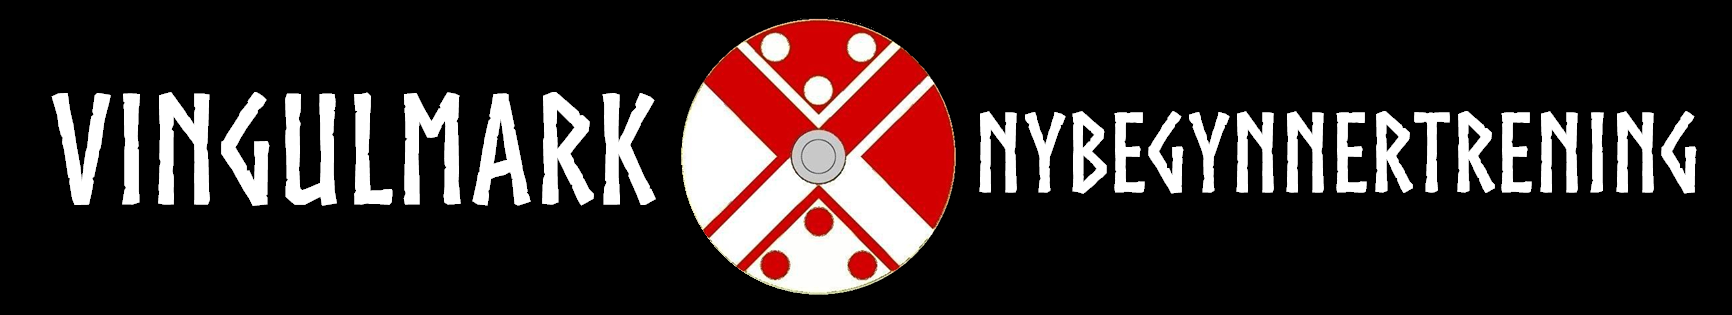
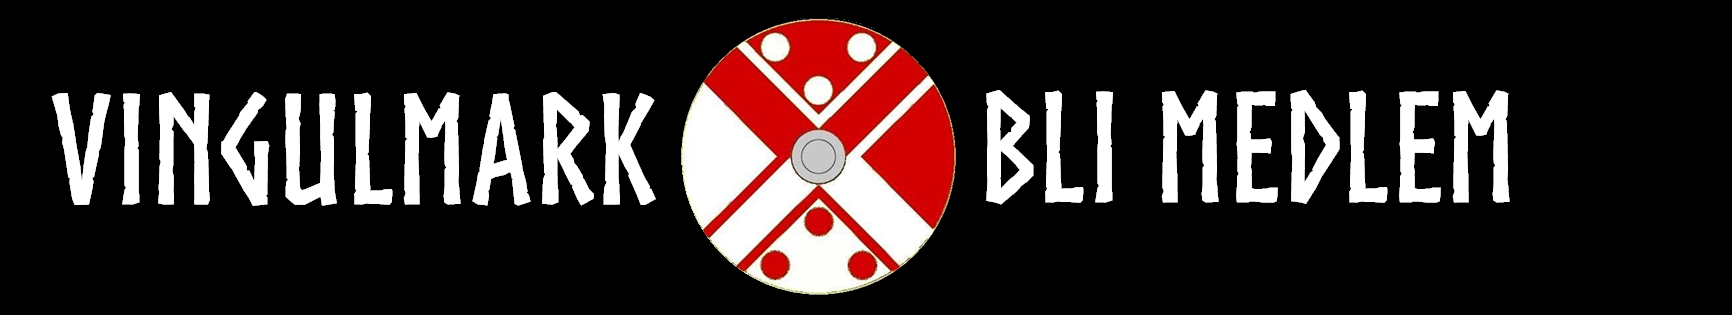
Changed a button to Bli medlem and added new header; added content to the same page

Changed region(s): [[0.5612, 0.2857, 0.9977, 0.6571]]

diff --git a/src/components/pages/Join.js b/src/components/pages/Join.js
@@ -46,7 +46,7 @@ const input1 = "Kunne du tenke deg å prøve “hærkamp” eller kjenner du noe
               "5. BOLK:\n"+
               "Introduksjon av pålevåpen.\n"+
               "6. BOLK:\n"+
-              "Eventuell repetisjon\n\n"+
+              "Eventuell repetisjon.\n\n"+
 
               "Ta med:\n"+
               "-Hansker som gir beskyttelse mot slag (bandyhansker er topp)\n"+
@@ -60,6 +60,64 @@ const input1 = "Kunne du tenke deg å prøve “hærkamp” eller kjenner du noe
 
               "Vel møtt!";
 
+const input2 = "Bli medlem:\n" +
+
+"Ønsker du å trene hærkamp, reise på markeder og treningshelger og mekke historisk utstyr sammen med Vingulmark? Her kan du sjekke"+
+" kriterier vi har for rekruttering og hvor og hvordan man skal søke medlemskap.\n\n"+
+
+"Vingulmark rekrutterer for tiden på to forskjellige nivåer, tilpasset hvilket nivå av erfaring man ligger på og hvor mye man vil"+
+" investere i hobbyen. “Vingulmark” er hovedgruppen med relativt strenge krav, mens “Vingulmark-leidangen” er en undergruppe med"+
+" en forholdsvis lav terskel.\n\n"+
+
+"Vingulmark-leidangen:\n"+
+"Leidangen var historisk en organisering i vikingtiden for å kalle inn bondekrigere i ufredstid. Leidangen var ikke profesjonelle"+
+" krigere, men utgjorde likevel den største massen av krigere i fylkingen.\n"+
+
+"I Vingulmark er Leidangen en undergruppe med mål om å kunne inkludere de aller ferskeste krigerne og de som ikke ønsker å "+
+"investere så mye i reenactment-delen av foreningen. Medlemskap i Leidangen er tilstrekkelig for å kunne delta fullt ut på "+
+"hærkamp-delen av hobbyen.\n"+
+
+"Som medlem av Vingulmark-Leidangen har man lov til å male skjoldet sitt i Vingulmarks farger & mønster, kan reise og trene"+
+" sammen med Vingulmark på treningshelger og visse markeder, delta på Vingulmark-arrangementer som mekkekvelder og julebord, få"+
+" tilgang på Vingulmarks sosiale nettverk (facebook og mail) og har tale og forslagsrett (men ikke stemmerett) på Vingulmarks"+
+" møter.\n\n"+
+
+"Søknad og kriterier:\n"+
+"For å søke medlemsskap i Leidangen sender man en mail til styret i Vingulmark, vingulmark_styret[at]googlegroups[dott]com, der"+
+" man gjør rede for om man oppfyller kravene for medlemskap:\n"+
+"– At godkjent sikkerhetskurs e.l. har blitt gjennomført.\n"+
+"– At man eier eget skjold og våpen for hærkampstrid.\n"+
+"– At man er minst 16 år gammel (de under 18 år trenger underskrift fra foresatte).\n\n"+
+
+"Styret avgjør om hvorvidt søkeren kvalifiserer seg til medlemskap. For at medlemskap i Leidangen skal være gyldig må også"+
+" kontingenten [150kr] være betalt innen 2 måneder for inneværende år eller innen 2 måneder av opptak.";
+
+const input3 = "Vingulmark:\n"+
+"Den originale Vingulmark har tradisjonelt favnet mye av vikingtid-reenactmenten i tillegg til hærkamp. Vingulmark tar også"+
+" betalte formidlings/kampshow-oppdrag som setter høyere krav til utstyr, evner og bidragsvilje.\n\n"+
+
+"Vingulmark er hovedgruppen/den harde kjernen i foreningen som består av de som legger mest tid i hobbyen. Det er også Vingulmark"+
+" som står for organiseringen av foreningen i sin helhet. Det er forventet større deltagelse (show, dugnader, kjøringer, møter)"+
+" av medlemmene i Vingulmark enn Leidangen.\n\n"+
+
+"Som medlem av Vingulmark har man fulle rettigheter mht. vedtektene (nederst på siden), som i tillegg til rettighetene nevnt for"+
+" leidangen blant annet gir stemmerett på Vingulmarks møter.\n\n"+
+
+"Søknad og kriterier:\n"+
+"For å søke medlemsskap i Vingulmark sender man en mail til styret i Vingulmark, vingulmark_styret[at]googlegroups[dott]com, der\n"+
+" man gjør rede for om man oppfyller kravene for medlemskap:\n"+
+"– Godkjent sikkerhetskurs e.l.\n"+
+"– Minst 16 år (de under 18 trenger underskrift fra foresatte)\n"+
+"– Eie godkjent vikingdrakt, skjold og hærkampvåpen.\n\n"+
+
+"Søknad om medlemsskap avgjøres på medlems- eller årsmøte, der det trengs 2/3 flertall for godkjenning. I denne avgjørelsen"+
+" er disse veiledende kriteriene avgjørende:\n"+
+"– Bør ha reist på tur (treningshelg/marked) med Vingulmark og/eller deltatt på arrangement i Vingulmarks regi.\n"+
+"– Være aktiv på oslotreningene, dvs ca 2 ganger i måneden.\n"+
+"– Ha en interesse av vikingtid-reenactment.\n\n"+
+
+"For at medlemskap i Vingulmark skal være gyldig må også kontingenten [350kr] være betalt innen 2 måneder av det inneværende året.";
+
 class Join extends Component {
     render() {
       return (
@@ -68,7 +126,11 @@ class Join extends Component {
           <NavigationBar />
           <ImgHolder img={join1} imgId="joinImg" frame="imgFrame"/>
           <TextElement text={input1} id="text-input" />
-          <ImgHolder img={join1} imgId="joinImg" frame="imgFrame"/>
+          <ImgHolder img={join2} imgId="joinImg2" frame="imgFrame2"/>
+          <TextElement text={input2} id="text-input" />
+          <ImgHolder img={join3} imgId="joinImg2" frame="imgFrame2"/>
+          <TextElement text={input3} id="text-input" />
+          <ImgHolder img={join4} imgId="joinImg2" frame="imgFrame3"/>
           <br/>
         </div>
       );

diff --git a/src/style/Join.css b/src/style/Join.css
@@ -85,6 +85,26 @@ html {
     width: 60%;
   }
 
+  #imgFrame2 {
+    margin-left: 25%;
+    border-left: 5px solid black;
+    border-right: 5px solid black;
+    padding: 5px;
+    background-color: rgba(0,0,0,0.7);
+    width: 60%;
+    text-align: center;
+  }
+
+  #imgFrame3 {
+    margin-left: 25%;
+    border-left: 5px solid black;
+    border-right: 5px solid black;
+    border-bottom: 5px solid black;
+    padding: 5px;
+    background-color: rgba(0,0,0,0.7);
+    width: 60%;
+    text-align: center;
+  }
 
   #joinImg {
     width: 50%;
@@ -92,6 +112,11 @@ html {
     border: 5px dotted whitesmoke;
   }
 
+  #joinImg2 { 
+    width: 50%;
+    height: 100%;
+    border: 5px dotted whitesmoke;
+  }
 
   #text-input {
     white-space: pre-wrap;
